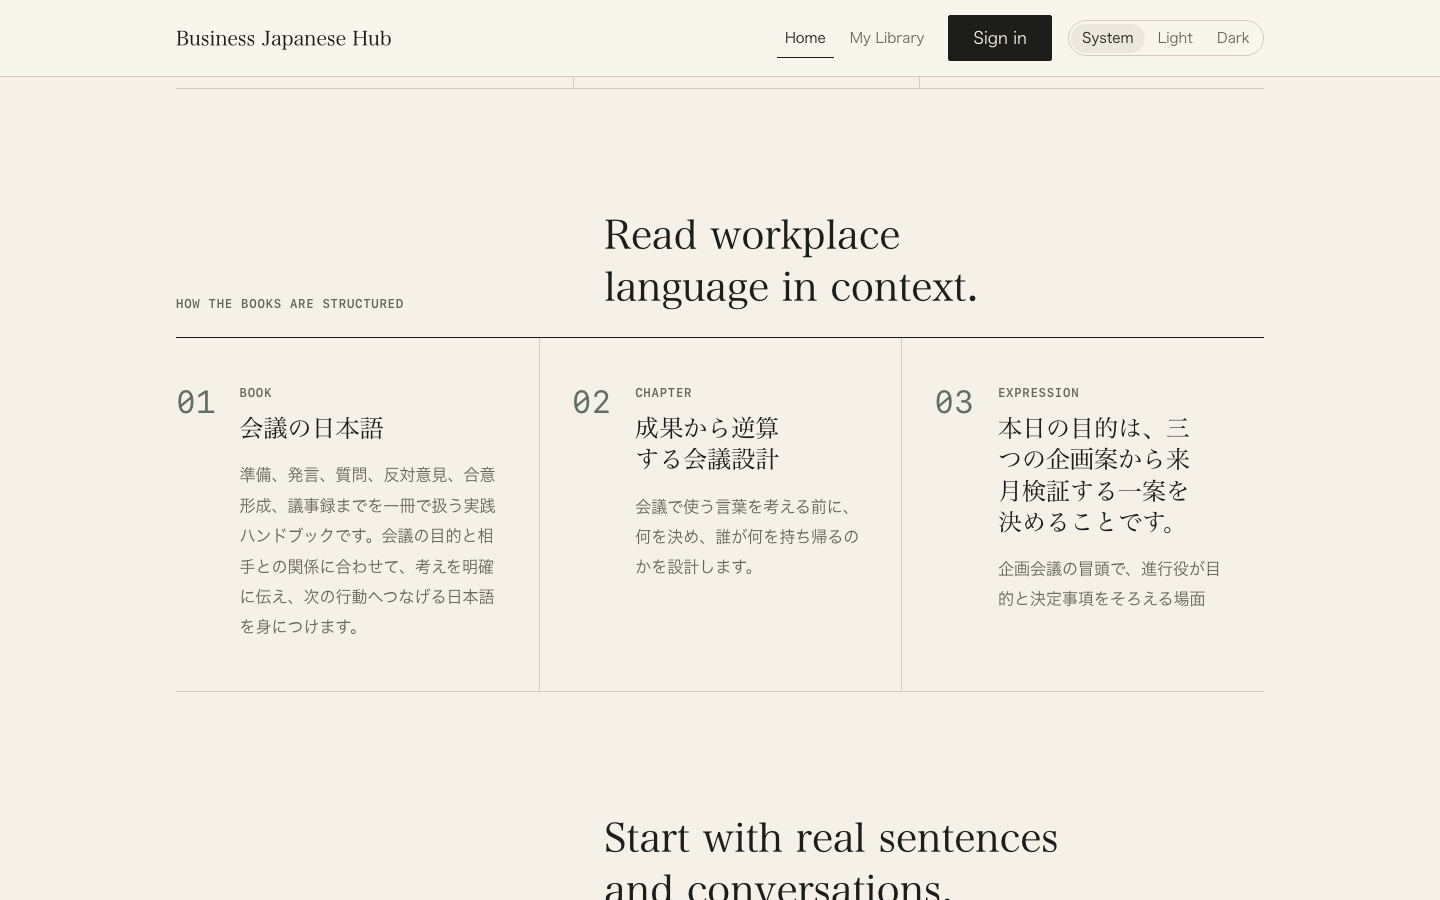
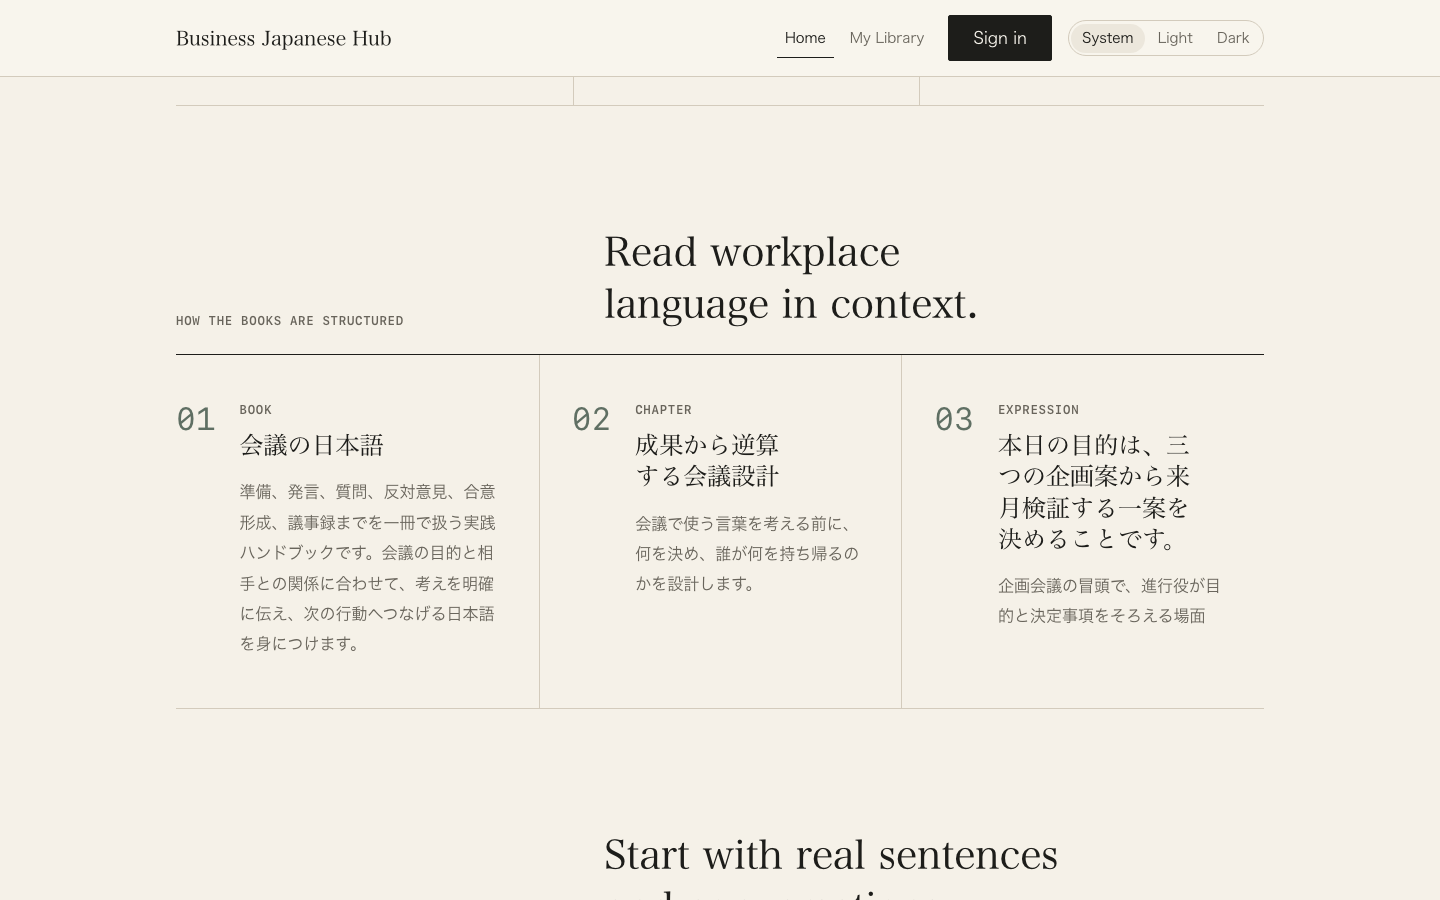
fix(storefront): close issue 80 review findings

diff --git a/src/app/HomePage.tsx b/src/app/HomePage.tsx
@@ -139,8 +139,10 @@ function EditorialFeatures({ features }: { features: EditorialFeature[] }) {
               <p className="storefront-feature__label" lang="en">
                 {feature.label}
               </p>
-              <h3 aria-label={`${feature.label}: ${feature.title}`}>{feature.title}</h3>
-              <p>{feature.body}</p>
+              <h3 lang={feature.titleLanguage} aria-label={`${feature.label}: ${feature.title}`}>
+                {feature.title}
+              </h3>
+              <p lang={feature.bodyLanguage}>{feature.body}</p>
             </div>
           </li>
         ))}
@@ -168,21 +170,27 @@ function EditorialSamples({ samples }: { samples: HomeContentSample[] }) {
           {samples.map((sample, index) => (
             <li className="storefront-samples__item" key={sample.id}>
               <article className="storefront-sample" aria-labelledby={`sample-title-${index}`}>
-                <p className="storefront-sample__source">{sample.sourceLabel}</p>
+                <p className="storefront-sample__source" lang={sample.book.language}>
+                  {sample.sourceLabel}
+                </p>
                 <p className="storefront-sample__kind" lang="en">
                   {sample.kind}
                 </p>
-                <h3 className="storefront-sample__expression" id={`sample-title-${index}`} lang="ja">
+                <h3
+                  className="storefront-sample__expression"
+                  id={`sample-title-${index}`}
+                  lang={sample.expressionLanguage}
+                >
                   {sample.expression}
                 </h3>
                 <div className="storefront-sample__tier">
                   <p className="storefront-sample__tier-label" lang="en">MEANING</p>
-                  <p>{sample.meaning}</p>
+                  <p lang={sample.meaningLanguage}>{sample.meaning}</p>
                 </div>
                 {sample.supporting && (
                   <div className="storefront-sample__tier">
                     <p className="storefront-sample__tier-label" lang="en">NOTE</p>
-                    <p>{sample.supporting}</p>
+                    <p lang={sample.supportingLanguage}>{sample.supporting}</p>
                   </div>
                 )}
                 <Link
@@ -212,16 +220,20 @@ function EditorialSelections({ selections }: { selections: EditorialSelection[] 
         <h2 id="storefront-selections-title">{strings.home.selectionsTitle}</h2>
       </div>
       <div className="storefront-selections__list">
-        {selections.map((selection, index) => (
+        {selections.map((selection) => (
           <article className="storefront-selection" key={selection.id}>
             <div className="storefront-selection__content">
-              <p className="storefront-selection__source">{selection.sourceLabel}</p>
+              <p className="storefront-selection__source" lang={selection.book.language}>
+                {selection.sourceLabel}
+              </p>
               <h3>
-                <Link to={`/books/${selection.book.slug}`}>
+                <Link lang={selection.book.language} to={`/books/${selection.book.slug}`}>
                   {selection.title}
                 </Link>
               </h3>
-              <p className="storefront-selection__body">{selection.body}</p>
+              <p className="storefront-selection__body" lang={selection.book.language}>
+                {selection.body}
+              </p>
               <Link
                 className="storefront-selection__link"
                 to={`/books/${selection.book.slug}`}
@@ -231,7 +243,7 @@ function EditorialSelections({ selections }: { selections: EditorialSelection[] 
               </Link>
             </div>
             <div className="storefront-selection__media">
-              <EditorialMedia media={selection.media} priority={index === 0} />
+              <EditorialMedia media={selection.media} language={selection.book.language} />
             </div>
           </article>
         ))}
@@ -240,7 +252,7 @@ function EditorialSelections({ selections }: { selections: EditorialSelection[] 
   )
 }
 
-function EditorialMedia({ media, priority }: { media: EditorialMedia; priority: boolean }) {
+function EditorialMedia({ media, language }: { media: EditorialMedia; language: string }) {
   if (media.kind === 'cover') {
     return <BookCover book={media.book} className="storefront-selection__cover" />
   }
@@ -252,10 +264,17 @@ function EditorialMedia({ media, priority }: { media: EditorialMedia; priority: 
         alt={media.image.alt}
         width={media.image.width}
         height={media.image.height}
-        loading={priority ? 'eager' : 'lazy'}
+        loading="lazy"
       />
-      {media.image.caption && <figcaption>{media.image.caption}</figcaption>}
-      {media.image.credit && <p className="storefront-selection__credit">{media.image.credit}</p>}
+      {(media.image.caption || media.image.credit) && (
+        <figcaption lang={language}>
+          {media.image.caption && <span>{media.image.caption}</span>}
+          {media.image.caption && media.image.credit && (
+            <span aria-hidden="true"> — </span>
+          )}
+          {media.image.credit && <span>{media.image.credit}</span>}
+        </figcaption>
+      )}
     </figure>
   )
 }

diff --git a/src/app/homeEditorial.ts b/src/app/homeEditorial.ts
@@ -16,14 +16,19 @@ export interface HomeContentSample {
   kind: 'dialogue' | 'example' | 'vocabulary'
   sourceLabel: string
   expression: string
+  expressionLanguage: string
   meaning: string
+  meaningLanguage: string
   supporting?: string
+  supportingLanguage?: string
 }
 
 export interface EditorialFeature {
   label: 'BOOK' | 'CHAPTER' | 'EXPRESSION'
   title: string
+  titleLanguage: string
   body: string
+  bodyLanguage: string
 }
 
 export type EditorialMedia =
@@ -72,6 +77,19 @@ function sourceLabel(book: Book, chapter: Chapter): string {
   return `${book.title} / ${chapter.title}`
 }
 
+/**
+ * Example translations predate per-field language metadata in the content
+ * model. Keep the Book language as the source-language default, while
+ * recognizing the released Traditional Chinese translation and plain-English
+ * fallback without changing the published content itself.
+ */
+function languageForTranslation(text: string, bookLanguage: string): string {
+  if (bookLanguage !== 'ja') return bookLanguage
+  if (/[\u3040-\u30ff]/u.test(text)) return bookLanguage
+  if (/[\u3400-\u9fff]/u.test(text)) return 'zh-TW'
+  return /[A-Za-z]/u.test(text) ? 'en' : bookLanguage
+}
+
 function sampleFromBlock(
   content: PublicChapterContent,
   block: ContentBlock,
@@ -89,8 +107,11 @@ function sampleFromBlock(
       kind: 'dialogue',
       sourceLabel: sourceLabel(book, chapter),
       expression: firstLine.text,
+      expressionLanguage: book.language,
       meaning: block.context,
+      meaningLanguage: book.language,
       supporting: firstLine.note,
+      supportingLanguage: firstLine.note ? book.language : undefined,
     }
   }
 
@@ -103,8 +124,11 @@ function sampleFromBlock(
       kind: 'vocabulary',
       sourceLabel: sourceLabel(book, chapter),
       expression: block.reading ? `${block.term}（${block.reading}）` : block.term,
+      expressionLanguage: book.language,
       meaning: block.meaning,
+      meaningLanguage: book.language,
       supporting: block.example,
+      supportingLanguage: block.example ? book.language : undefined,
     }
   }
 
@@ -117,8 +141,13 @@ function sampleFromBlock(
       kind: 'example',
       sourceLabel: sourceLabel(book, chapter),
       expression: block.text,
+      expressionLanguage: book.language,
       meaning: block.translation ?? block.note ?? '',
+      meaningLanguage: block.translation
+        ? languageForTranslation(block.translation, book.language)
+        : book.language,
       supporting: block.translation ? block.note : undefined,
+      supportingLanguage: block.note ? book.language : undefined,
     }
   }
 
@@ -180,7 +209,9 @@ export function listEditorialFeatures(entries = listCatalogEntries()): Editorial
     features.push({
       label: 'BOOK',
       title: featureEntry.book.title,
+      titleLanguage: featureEntry.book.language,
       body: featureEntry.book.description,
+      bodyLanguage: featureEntry.book.language,
     })
   }
 
@@ -188,7 +219,9 @@ export function listEditorialFeatures(entries = listCatalogEntries()): Editorial
     features.push({
       label: 'CHAPTER',
       title: firstChapter.chapter.title,
+      titleLanguage: firstChapter.entry.book.language,
       body: firstChapter.chapter.summary,
+      bodyLanguage: firstChapter.entry.book.language,
     })
   }
 
@@ -196,7 +229,9 @@ export function listEditorialFeatures(entries = listCatalogEntries()): Editorial
     features.push({
       label: 'EXPRESSION',
       title: firstSample.expression,
+      titleLanguage: firstSample.expressionLanguage,
       body: firstSample.meaning,
+      bodyLanguage: firstSample.meaningLanguage,
     })
   }
 

diff --git a/src/app/HomePage.test.tsx b/src/app/HomePage.test.tsx
@@ -75,6 +75,12 @@ describe('storefront', () => {
         'お手数をおかけしますが、ご確認のほどよろしくお願いいたします。',
       ),
     ).toBeInTheDocument()
+    expect(within(samples).getByText('敬語（けいご）')).toHaveAttribute('lang', 'ja')
+    expect(within(samples).getByText('麻煩您確認，謝謝。')).toHaveAttribute('lang', 'zh-TW')
+    expect(within(samples).getByText('依頼を締めくくる定番表現です。')).toHaveAttribute(
+      'lang',
+      'ja',
+    )
     expect(within(samples).getByRole('region')).toHaveAttribute(
       'aria-label',
       '実際の文章と会話から学ぶ',

diff --git a/src/app/homeEditorial.test.ts b/src/app/homeEditorial.test.ts
@@ -32,6 +32,9 @@ describe('home editorial content projection', () => {
       '敬語（けいご）',
       'お手数をおかけしますが、ご確認のほどよろしくお願いいたします。',
     ])
+    expect(samples.map((sample) => sample.expressionLanguage)).toEqual(['ja', 'ja', 'ja'])
+    expect(samples.find((sample) => sample.kind === 'example')?.meaningLanguage).toBe('zh-TW')
+    expect(samples.find((sample) => sample.kind === 'example')?.supportingLanguage).toBe('ja')
     expect(samples.every((sample) => sample.sourceLabel.includes(' / '))).toBe(true)
   })
 

diff --git a/src/styles/editorial-v2.css b/src/styles/editorial-v2.css
@@ -1363,12 +1363,6 @@
   line-height: var(--leading-body);
 }
 
-.storefront-selection__credit {
-  margin-top: var(--space-2);
-  color: var(--color-text-muted);
-  font-size: var(--text-xs);
-}
-
 @media (max-width: 47.99rem) {
   .storefront-section-heading {
     grid-template-columns: 1fr;

diff --git a/docs/evidence/issue-80/README.md b/docs/evidence/issue-80/README.md
@@ -2,43 +2,66 @@
 
 ## Screenshots
 
-The top-of-page before/after captures use the requested viewport sizes:
+所有影像都是 requested viewport 的 1x PNG：
 
-- `before-1440.png` and `after-1440.png`: 1440 × 900
-- `before-390.png` and `after-390.png`: 390 × 844
-- `after-mid-1440.png`: 1440 × 900, scrolled to the new numbered editorial index
-- `after-mid-390.png`: 390 × 844, scrolled to the new horizontal sample strip
+- `before-1440.png` / `after-1440.png`：1440 × 900，頁面頂部
+- `before-390.png` / `after-390.png`：390 × 844，頁面頂部
+- `before-mid-1440.png` / `after-mid-1440.png`：1440 × 900，固定
+  `scrollY=1760`，對照新增的 numbered editorial index
+- `before-mid-390.png` / `after-mid-390.png`：390 × 844，固定
+  `scrollY=2520`，對照新增的行動版 numbered index
+- `before-alternating-1440.png` / `after-alternating-1440.png`：1440 × 900，
+  requested `scrollY=3560`，顯示 alternating text/image spreads
+- `before-alternating-390.png` / `after-alternating-390.png`：390 × 844，
+  requested `scrollY=5600`，顯示行動版的 content-first spread
 
-The before captures were rendered from the exact `origin/main` baseline
-`ee068528a9e6e77f8d3b37f4ba12214401e98a3c`. The top-of-page after captures
-remain intentionally stable because Issue #80 starts after the existing
-featured Book and READ / PRACTICE / CONTINUE paths. The mid-page captures show
-the new Issue #80 surface directly.
+Before captures 由 exact `origin/main` baseline
+`ee068528a9e6e77f8d3b37f4ba12214401e98a3c` render。頂部 before/after 維持
+相同，是因為 #80 的 bounded slice 從既有 Featured Book 與 READ / PRACTICE /
+CONTINUE paths 之後開始；mid pair 使用相同實際 scroll position。Baseline
+文件比 after 短，因此 alternating before capture 會被瀏覽器 clamp 到
+baseline document end；這個差異本身證明新增 spread 位於既有 storefront 的
+後續 continuation，而不是重畫既有 top surface。
 
 ## Released content and assets
 
-- The paid `meeting-japanese` sample is taken from its released preview
-  chapter `成果から逆算する会議設計`; the displayed dialogue line and
-  commentary are read from that public prefix only.
-- The free `keigo-essentials` sample uses the released `敬語（けいご）`
-  vocabulary block and its released `keigo-pyramid.png` figure.
-- The free `email-manners` sample uses the released example
+- paid `meeting-japanese` 只從 released preview chapter
+  `成果から逆算する会議設計` 的 public prefix 取樣；dialogue 與 commentary
+  來自該 prefix。
+- free `keigo-essentials` 使用 released `敬語（けいご）` vocabulary block
+  與 released `keigo-pyramid.png` figure。
+- free `email-manners` 使用 released example
   `お手数をおかけしますが、ご確認のほどよろしくお願いいたします。`
-  and its stored translation/note.
-- Editorial media is resolved through the existing catalog asset seam under
-  `content-dist/assets/books/`; no third-party download or generated artwork
-  was added.
-- No Stats section is published: the current repository contains no verified
-  live counts suitable for a public claim.
+  及其儲存的 translation / note。
+- Editorial media 透過既有 catalog asset seam 從
+  `content-dist/assets/books/` 解析；沒有加入第三方下載或 generated artwork。
+- 沒有發布 Stats section：repository 沒有可支持公開宣稱的 verified live counts。
 
 ## QA notes
 
-- Light and dark themes were checked in the CUA browser at 1440px and 390px.
-- At 390px, the document remains viewport-bounded; only the sample viewport
-  owns horizontal overflow, with `scroll-snap-type: x mandatory`, touch
-  scrolling, and focusable links inside each sample.
-- The accessibility tree exposes the new feature list, sample region, real
-  image alt text/captions, existing header controls, and unchanged purchase /
-  preview / Career Game destinations.
-- No new motion is required for this slice; the shared global reduced-motion
-  rule remains authoritative.
+- CUA browser 已檢查 1440px 與 390px 的 light / dark themes。
+- 390px 下 document 維持 viewport-bounded；只有 sample viewport 擁有
+  horizontal overflow，並設定 `scroll-snap-type: x mandatory`、touch scrolling，
+  以及其中可 focus 的 links。
+- Accessibility tree 暴露新 feature list、sample region、real image alt text /
+  captions、既有 header controls，以及未變更的 purchase / preview / Career Game
+  destinations；catalog-derived Japanese / Traditional Chinese text 使用 nested
+  language overrides。
+- 未加入新的 motion；shared global reduced-motion rule 仍是唯一 authority。
+
+## Exact-HEAD validation
+
+以下 gates 在包含本 evidence package 的 final commit 重新執行：
+
+- `pnpm typecheck` — pass
+- `pnpm lint` — pass
+- `pnpm test` — 108 files / 1,198 tests passed
+- `deno check supabase/functions/*/index.ts` — pass
+- `pnpm build` — release verification、Library build、Career Game build pass
+- `pnpm smoke:built-frontends` — built Library / Career Game direct-route smoke pass
+- `pnpm smoke:deployment:production` — canonical Library / Career Game origin smoke pass
+- `git diff --check origin/main...HEAD` — pass
+- `git status --porcelain=v1` — clean after validation
+
+Validation was run against the final relevant working tree; the final commit SHA
+is recorded in the PR and handoff report.
